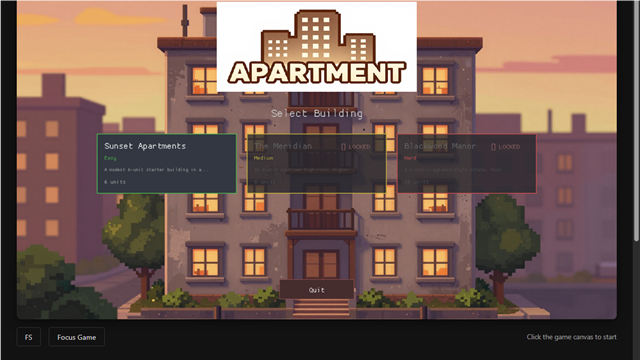
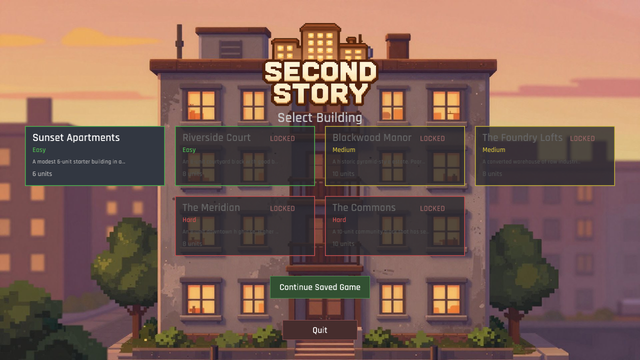
The building raises its Second Story sign and opens the right door on itch (Second Story rebrand; itch.io HTML5 target)
Player-facing branding still carried the old name in the title logo, fallback
renderer, balance report, documentation, and art-generation briefs. Replace
it with a transparent 512x256 Second Story mark, refresh the verified menu
capture and catalog thumbnail, and update the remaining descriptive text.

The legacy Cargo package, capture prefix, deployment folder, and save
namespace remain intact until the repository and folder migrate; CLAUDE.md
now records that compatibility boundary so existing saves are not renamed by
accident.

The itch URL rename left the Butler default pointed at the old slug while the
page still embedded its December WebGL archive. publish-itch.ps1 now targets
kalaith/second-story:html5, and the live project launches upload 18638960
instead of legacy upload 15966377.

Verified with .\publish.ps1 across Windows and WebGL release builds,
packaging, and preview deployment. cargo fmt --check passed; cargo test
passed 93 tests with one report test ignored; JSON and PowerShell checks
passed; and the live itch iframe rendered the new six-building title menu.

diff --git a/src/sim_harness.rs b/src/sim_harness.rs
@@ -566,7 +566,7 @@ fn format_report(config: &GameConfig, summaries: &[StrategySummary], seeds: u64)
     let start = config.starting_conditions.player_money;
     let duration = config.win_conditions.game_duration_ticks.unwrap_or(36);
 
-    writeln!(out, "# Apartment Manager — Balance Report").unwrap();
+    writeln!(out, "# Second Story — Balance Report").unwrap();
     writeln!(out).unwrap();
     writeln!(
         out,

diff --git a/src/state/menu.rs b/src/state/menu.rs
@@ -150,7 +150,7 @@ impl MenuState {
                 },
             );
         } else {
-            let title = "APARTMENT";
+            let title = "SECOND STORY";
             let title_size = 60.0;
             let title_width = measure_ui_text(title, None, title_size as u16, 1.0).width;
             draw_ui_text(

diff --git a/CLAUDE.md b/CLAUDE.md
@@ -4,7 +4,16 @@ This file provides guidance to Claude Code (claude.ai/code) when working with co
 
 ## What this is
 
-**Second Story** (formerly Apartment Manager; the crate name, deploy slug, and save id remain `apartment`/`apartment_manager`) — a cozy building-management game built in Rust with `macroquad` and the shared, path-local `macroquad-toolkit` crate (`../macroquad-toolkit`, a sibling directory that must be present). You manage a neglected apartment block over 36 months: repairs, upgrades, tenants, rent, missions, and reputation, unlocking harder properties as you go.
+**Second Story** — a cozy building-management game built in Rust with
+`macroquad` and the shared, path-local `macroquad-toolkit` crate
+(`../macroquad-toolkit`, a sibling directory that must be present). You manage
+a neglected apartment block over 36 months: repairs, upgrades, tenants, rent,
+missions, and reputation, unlocking harder properties as you go.
+
+The repository folder, Cargo package, capture environment prefix, deployment
+slug, and save namespace deliberately retain their legacy `apartment` /
+`apartment_manager` identifiers until the repository and folder migrate. Do
+not rename the save namespace without a migration path for existing saves.
 
 ## Commands
 

diff --git a/README.md b/README.md
@@ -1,6 +1,6 @@
 # Second Story
 
-Second Story (formerly Apartment Manager) is a cozy building-management game about caring for a neglected apartment block and the people who live there.
+Second Story is a cozy building-management game about caring for a neglected apartment block and the people who live there.
 
 You are not a property tycoon. You are the custodian of a tired building with flickering lights, worn carpets, difficult choices, and tenants who need the place to work.
 
